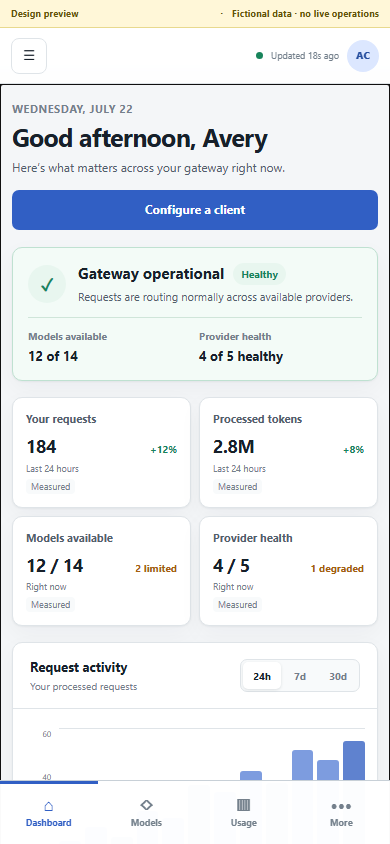
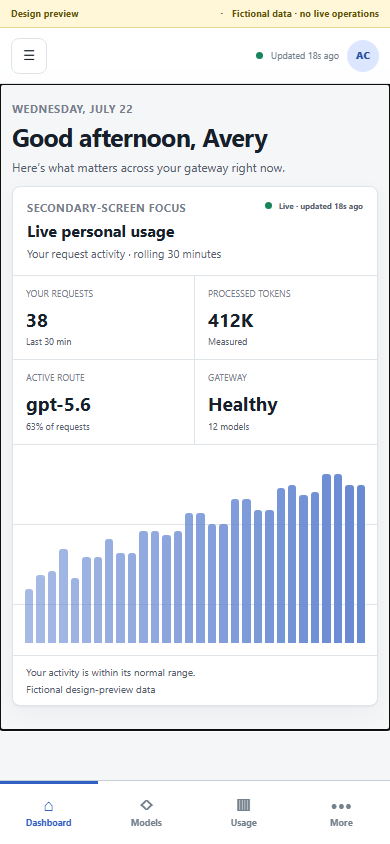
feat: unify mobile focused monitoring

diff --git a/.product-design/rounds/step-0/primary/styles.css b/.product-design/rounds/step-0/primary/styles.css
@@ -259,7 +259,13 @@ body[data-runtime="operator"] .count-badge.operator-only { display: grid !import
 .empty-models { padding: 60px 20px; text-align: center; }
 .empty-models h2 { margin-bottom: 5px; }
 
+.focus-surface > header { display: flex; align-items: center; justify-content: space-between; gap: 14px; padding: 16px 18px; border-bottom: 1px solid var(--border); }
+.focus-surface > header h2, .focus-surface > header p { margin: 0; }
+.focus-surface > header h2 { font-size: 18px; }
+.focus-surface > header p:last-child { margin-top: 3px; color: var(--text-secondary); font-size: 9px; }
+.focus-surface > footer { min-height: 44px; display: flex; align-items: center; justify-content: space-between; gap: 12px; padding: 0 18px; border-top: 1px solid var(--border); color: var(--text-secondary); font-size: 9px; }
 .live-monitor-panel { display: none; margin-bottom: 11px; }
+.monitor-focus-readouts { grid-template-columns: repeat(4,minmax(0,1fr)); }
 .live-chart-layout { display: grid; grid-template-columns: minmax(0,1fr) 115px; min-height: 220px; }
 .live-chart { display: flex; align-items: end; gap: 3px; padding: 22px 16px; background-image: repeating-linear-gradient(to bottom, transparent 0, transparent 54px, var(--border) 54px, var(--border) 55px); }
 .live-chart-layout aside { display: flex; flex-direction: column; justify-content: center; padding: 14px; border-left: 1px solid var(--border); background: var(--bg-subtle); }
@@ -448,7 +454,24 @@ body[data-runtime="operator"] .count-badge.operator-only { display: grid !import
   .model-card .model-cell { display: none; }
   .model-card .model-main { display: block; }
   .model-card .model-mobile-meta { display: flex; grid-column: 1 / -1; flex-wrap: wrap; gap: 6px 13px; color: var(--text-secondary); font-size: 9px; }
+  #page-dashboard .page-header { margin-bottom: 10px; }
+  #page-dashboard .page-header .page-actions, #page-monitor > .page-header > .button { display: none; }
+  #page-dashboard .secondary-screen-focus { display: block; }
+  #page-dashboard .hero-status, #page-dashboard .degraded-banner, #page-dashboard .metric-grid, #page-dashboard .dashboard-grid { display: none !important; }
+  .secondary-screen-focus { border-radius: 8px; }
+  .secondary-screen-focus > header, .focus-surface > header { align-items: flex-start; padding: 13px 14px; }
+  .secondary-screen-focus > header .eyebrow, .focus-surface > header .eyebrow { display: block; }
+  .secondary-screen-focus h2, .focus-surface > header h2 { font-size: 16px; }
+  .live-status { white-space: nowrap; font-size: 8px; }
+  .focus-readouts { grid-template-columns: repeat(2,minmax(0,1fr)); }
+  .focus-readouts article { padding: 11px 13px; border-bottom: 1px solid var(--border); }
+  .focus-readouts article:nth-child(2) { border-right: 0; }
+  .focus-readouts article:nth-child(n+3) { border-bottom: 0; }
+  .focus-readouts strong { font-size: 19px; }
+  .focus-chart { height: 210px; gap: 3px; padding: 18px 12px 12px; }
+  .secondary-screen-focus > footer, .focus-surface > footer { align-items: flex-start; flex-direction: column; gap: 2px; padding: 9px 13px; }
   #page-monitor .live-monitor-panel { display: block; }
+  #page-monitor .monitor-summary, #page-monitor .monitor-grid { display: none; }
   #page-monitor .monitor-summary { grid-template-columns: repeat(4,minmax(120px,1fr)); overflow-x: auto; padding-bottom: 5px; scrollbar-width: thin; }
   #page-monitor .monitor-summary article { min-width: 120px; }
   .live-chart-layout { min-height: 245px; }
@@ -483,11 +506,20 @@ body[data-runtime="operator"] .count-badge.operator-only { display: grid !import
   .mobile-drawer:not([hidden]) { top: 22px; bottom: 54px; }
   main { padding-top: 12px; }
   #page-monitor .live-monitor-panel { margin-bottom: 8px; }
-  #page-monitor .monitor-summary { display: none; }
-  #page-monitor .monitor-grid { display: none; }
-  .live-chart-layout { min-height: 205px; grid-template-columns: minmax(0,1fr) 100px; }
-  .live-chart { padding-top: 13px; padding-bottom: 13px; }
-  .page-header { display: flex; align-items: center; margin-bottom: 10px; }
+  #page-dashboard .focus-chart, #page-monitor .focus-chart { height: 70px; }
+  .secondary-screen-focus > header, .focus-surface > header { min-height: 45px; padding: 7px 10px; }
+  .secondary-screen-focus > header p:last-child, .focus-surface > header p:last-child { display: none; }
+  .secondary-screen-focus h2, .focus-surface > header h2 { font-size: 13px; }
+  .focus-readouts { grid-template-columns: repeat(4,minmax(0,1fr)); }
+  .focus-readouts article { padding: 6px 7px; border-right: 1px solid var(--border); border-bottom: 0; }
+  .focus-readouts article:nth-child(2) { border-right: 1px solid var(--border); }
+  .focus-readouts article:last-child { border-right: 0; }
+  .focus-readouts span { font-size: 7px; }
+  .focus-readouts strong { margin: 2px 0 0; font-size: 13px; }
+  .focus-readouts small { display: none; }
+  .secondary-screen-focus > footer, .focus-surface > footer { min-height: 28px; padding: 5px 10px; font-size: 8px; }
+  .secondary-screen-focus > footer span:last-child, .focus-surface > footer span:last-child { display: none; }
+  .page-header { display: flex; align-items: center; margin-bottom: 8px; }
   .page-header .eyebrow, .page-header > div > p:last-child { display: none; }
   .page-header h1 { margin: 0; font-size: 1.35rem; }
   .hero-status { min-height: 77px; grid-template-columns: auto 1fr auto; padding: 11px 14px; }

diff --git a/.product-design/rounds/step-0/primary/index.html b/.product-design/rounds/step-0/primary/index.html
@@ -182,7 +182,7 @@
         <section class="monitor-summary" aria-label="Monitor summary">
           <article><span>Request rate</span><strong>21.4/min</strong><small>Pool-wide · measured</small></article><article><span>P95 latency</span><strong>2.8s</strong><small>Last 15 minutes</small></article><article><span>Error rate</span><strong>0.7%</strong><small>Within normal range</small></article><article id="persistence-metric"><span>Usage persistence</span><strong class="healthy-text">Healthy</strong><small>Canonical events current</small></article>
         </section>
-        <section class="panel live-monitor-panel" aria-labelledby="live-monitor-title"><header class="panel-header"><div><h2 id="live-monitor-title">Live request flow</h2><p>Pool-wide · rolling 30 minutes · fictional preview</p></div><div class="live-status"><span class="status-dot healthy" aria-hidden="true"></span>Live · 18s</div></header><div class="live-chart-layout"><div class="live-chart" id="live-monitor-chart" role="img" aria-label="Live pool request flow over thirty minutes, currently 21.4 requests per minute with one reduced-capacity provider."></div><aside><span>Now</span><strong>21.4/min</strong><small>Request rate</small><span>Headroom</span><strong>71%</strong><small>Across eligible routes</small></aside></div></section>
+        <section class="panel live-monitor-panel focus-surface" aria-labelledby="live-monitor-title"><header><div><p class="eyebrow">Mobile focus</p><h2 id="live-monitor-title">Live pool health</h2><p>Requests, latency, errors, and capacity · rolling 30 minutes</p></div><div class="live-status"><span class="status-dot healthy" aria-hidden="true"></span>Live · updated 18s ago</div></header><div class="focus-readouts monitor-focus-readouts"><article><span>Request rate</span><strong>21.4/min</strong><small>Measured</small></article><article><span>P95 latency</span><strong>2.8s</strong><small>Last 15 min</small></article><article><span>Error rate</span><strong>0.7%</strong><small>Normal range</small></article><article><span>Headroom</span><strong>71%</strong><small>Estimated</small></article></div><div class="focus-chart live-chart" id="live-monitor-chart" role="img" aria-label="Live pool request flow over thirty minutes, currently 21.4 requests per minute with one reduced-capacity provider."></div><footer><span>Routing is stable with one reduced-capacity provider.</span><span>Fictional design-preview data</span></footer></section>
         <div class="monitor-grid">
           <section class="panel incident-detail" aria-labelledby="monitor-incident-title"><header class="panel-header"><div><h2 id="monitor-incident-title">Active incident</h2><p>Provider capacity · Warning</p></div><span class="status-badge warning">Degraded</span></header><div class="incident-body"><h3>DeepSeek capacity is limited</h3><p>Connection <code>DS-02</code> entered cooldown after an upstream quota response. The route remains available through <code>DS-01</code>.</p><dl><div><dt>User impact</dt><dd>Reduced request headroom; no current outage</dd></div><div><dt>Routing response</dt><dd>Traffic shifted to one eligible connection</dd></div><div><dt>Expected recovery</dt><dd>About 42 minutes</dd></div><div><dt>Last observed</dt><dd>4 minutes ago</dd></div></dl><button class="button secondary" type="button" data-navigate="connections">Inspect connection</button></div></section>
           <section class="panel event-panel" aria-labelledby="events-title"><header class="panel-header"><div><h2 id="events-title">Recent operational events</h2><p>Newest first</p></div></header><ol class="event-list"><li><time>14:28</time><span class="event-marker warning" aria-hidden="true"></span><div><strong>Connection entered cooldown</strong><p>DeepSeek · DS-02 · quota response</p></div></li><li><time>14:25</time><span class="event-marker info" aria-hidden="true"></span><div><strong>Routing compensated</strong><p>Traffic shifted to one eligible connection</p></div></li><li><time>14:12</time><span class="event-marker success" aria-hidden="true"></span><div><strong>Provider registry reloaded</strong><p>Five provider definitions active</p></div></li></ol></section>

diff --git a/.product-design/rounds/step-0/primary/app.js b/.product-design/rounds/step-0/primary/app.js
@@ -253,5 +253,5 @@ document.querySelector("#retry-persistence").addEventListener("click", () => {
 const initialPage = location.hash.slice(1);
 const compactPortrait = matchMedia("(max-width: 720px)").matches;
 const compactLandscape = matchMedia("(max-height: 500px) and (orientation: landscape) and (max-width: 900px)").matches;
-const defaultPage = runtime === "operator" && (compactPortrait || compactLandscape) ? "monitor" : runtime === "member" && compactLandscape ? "usage" : "dashboard";
+const defaultPage = runtime === "operator" && (compactPortrait || compactLandscape) ? "monitor" : "dashboard";
 navigate(initialPage && (workspacePages[initialPage] || ["dashboard", "models", "usage", "monitor"].includes(initialPage)) ? initialPage : defaultPage, false);

diff --git a/.product-design/direction/state-matrix.md b/.product-design/direction/state-matrix.md
@@ -8,9 +8,9 @@ Status: draft for owner review
 | S2 | Desktop · operator | Dashboard · degraded | Enter Monitor and inspect the connection incident | Operations are visibly separate; Monitor explains impact, routing compensation, and recovery without placing configuration on the dashboard |
 | S3 | Desktop · member | Models and My usage | Search/filter fictional routes, simulate copy, inspect weekly leaderboard | Route details remain understandable; usage comparison is aggregate, abbreviated, and clearly distinct from personal totals |
 | S4 | Tablet portrait · operator | Dashboard · stale analytics | Review localized stale state, collapse/expand navigation, and open destinations | Last-known-good information remains visible, freshness is explicit, and navigation remains usable in either density |
-| S5 | Mobile portrait · member | Dashboard · healthy | Review gateway status and use bottom navigation | Personal status and usage appear early; no root horizontal overflow; secondary detail is progressively disclosed |
-| S6 | Mobile portrait · operator | Monitor · degraded | Inspect the live graph and incident, then open More | Monitor is the default compact destination; live state precedes administration and operator tools remain reachable |
-| S7 | Mobile landscape · member/operator | Personal usage or Monitor focus | Observe the dominant graph and open compact navigation | The compact shell defaults to the role-relevant live view, actions remain visible, and no root horizontal overflow occurs |
+| S5 | Mobile portrait · member | Personal focus · healthy | Observe the live personal graph and use bottom navigation | The same focused composition used on tablet is adapted to portrait; personal state, four readouts, freshness, and the graph fit above navigation |
+| S6 | Mobile portrait · operator | Monitor focus · degraded | Observe the live pool graph, then open More | Monitor is the default; the same focused composition shows pool health and suppresses broad diagnostics until navigation |
+| S7 | Mobile landscape · member/operator | Role-scoped focus | Leave the graph visible and open compact navigation when needed | Member and operator share one focus hierarchy, differing only by scope; all content fits above fixed navigation without root overflow |
 | S8 | Tablet landscape · member/operator | Secondary-screen focus view | Leave the display running and inspect current state at a glance | One large graph dominates; freshness and four role-scoped metrics remain readable without interaction; broad dashboard panels are suppressed |
 | S9 | Desktop · operator | Monitor · localized resource error | Retry simulated persistence panel | Healthy monitor panels remain visible; the failing resource has an actionable local error and simulated recovery |
 | S10 | Any · member | Dashboard · no actionable incidents | Inspect attention region | A concise “No action required” state replaces an empty alert list without inventing warnings |

diff --git a/.product-design/direction/product-truth.md b/.product-design/direction/product-truth.md
@@ -114,8 +114,8 @@ In the real product:
 - At 1440px, show a persistent sidebar and a readable two-column dashboard hierarchy.
 - At 820px portrait, retain clear workspace grouping while reducing simultaneous secondary content.
 - At 1180×820 landscape tablet, assume secondary-screen monitoring: show one dominant live graph, freshness, and a small current-state strip; member scope is personal usage and operator scope is pool health.
-- At 390px portrait, use a compact header and bottom navigation; operator presentation starts in Monitor while member presentation starts with personal gateway status.
-- At 844×390 landscape mobile, operator presentation is a focused Monitor with the live graph and incident state ahead of administration; member presentation prioritizes gateway state and personal usage.
+- At 390px portrait, use the same focused composition as landscape tablet—freshness, four readouts, and one dominant graph. Operator scope starts in Monitor; member scope starts with personal gateway usage.
+- At 844×390 landscape mobile, preserve that same role-scoped focus hierarchy in a single screen above fixed navigation; broad diagnostics and administration remain behind navigation.
 - Wide comparison tables must have disclosure/list alternatives on narrow screens.
 
 ## Visual direction
